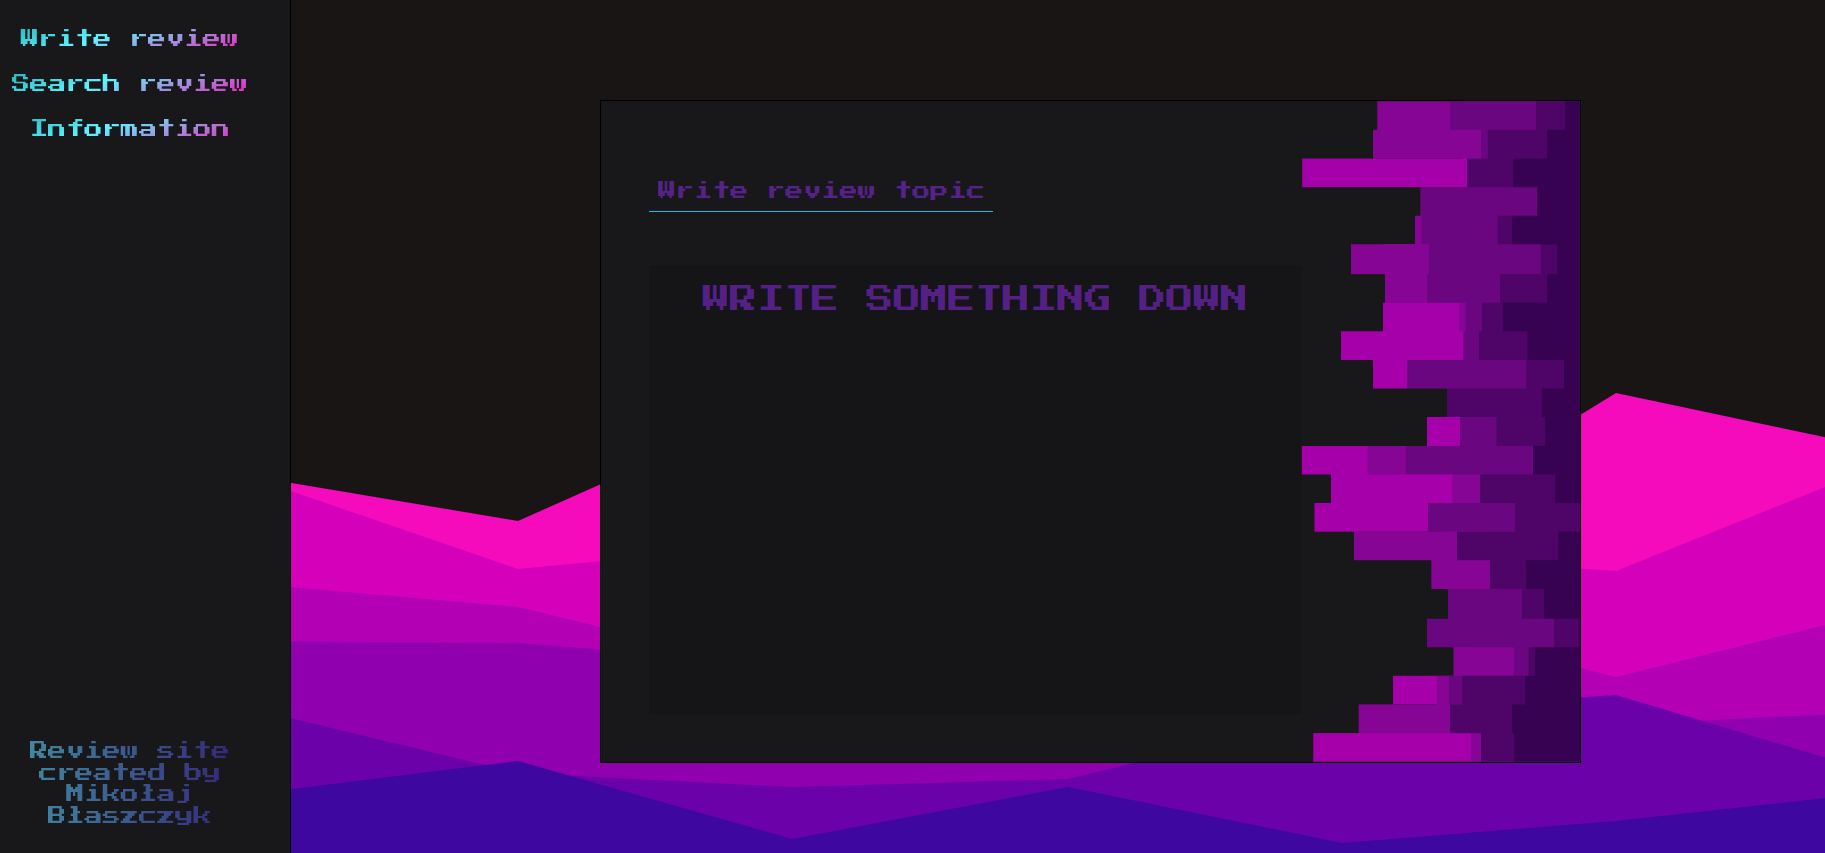
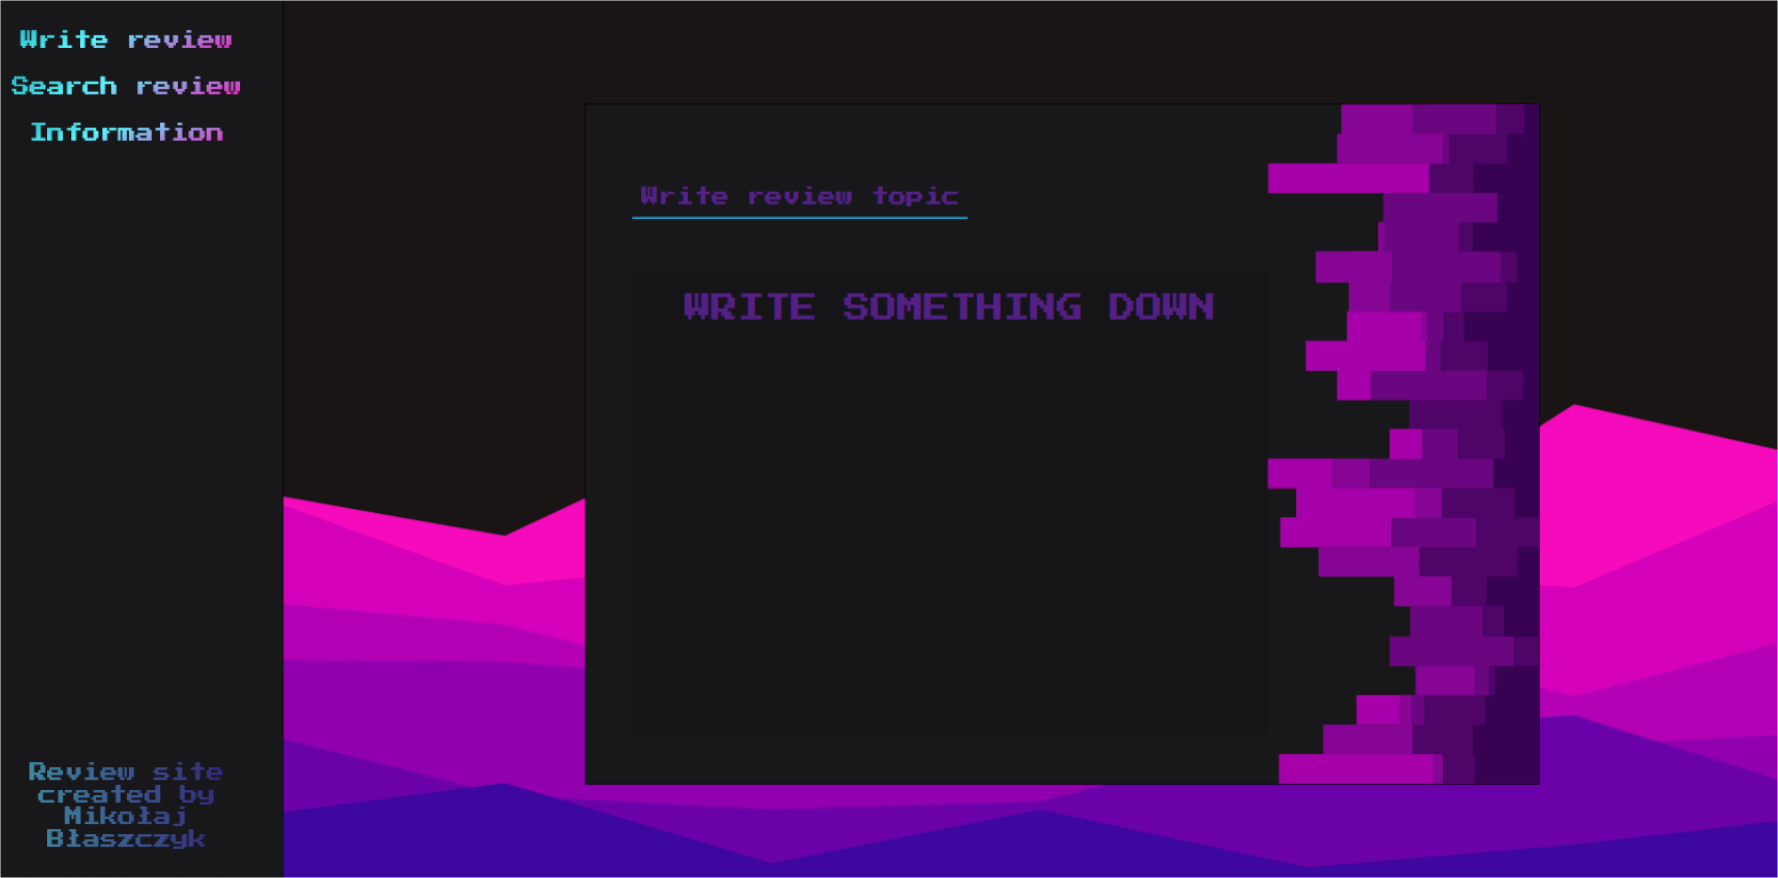
image change

diff --git a/subSites/ReactApp.html b/subSites/ReactApp.html
@@ -64,17 +64,17 @@
             <div class=" col-lg-6 col-l-6 col-md-12 col-sm-12 w-50 p-4">
                 <div id="carousel" class="carousel slide " data-bs-ride="carousel">
                     <div class="carousel-inner h-100 cardImagesReview">
-                        <div class="carousel-item active h-100">
+                        <div class="carousel-item active h-75">
                             <img src="../images/ReviewProjectWriter-1.png" class="img-fluid">
                         </div>
-                        <div class="carousel-item h-100">
+                        <div class="carousel-item h-75">
                             <img src="../images/ReviewProjectWriter-2.png" class="img-fluid">
                         </div>
                     </div>
                 </div>
             </div>
-            <div
-                class="col-xl-4 col-lg-5 col-md-10 col-sm-10 offset-lg-1 offset-l-1 offset-md-1 offset-sm-1 mt-md-2 mt-sm-2">
+            <div class=" col-xl-4 col-lg-5 col-md-10 col-sm-10 offset-lg-1 offset-l-1 offset-md-1 offset-sm-1 mt-md-2
+                                mt-sm-2">
                 <div class=" d-flex flex-column justify-content-center h-100">
                     <p class="text-white fs-5 justifyText">
                         PROJECT IN PROGRESS!!!!
